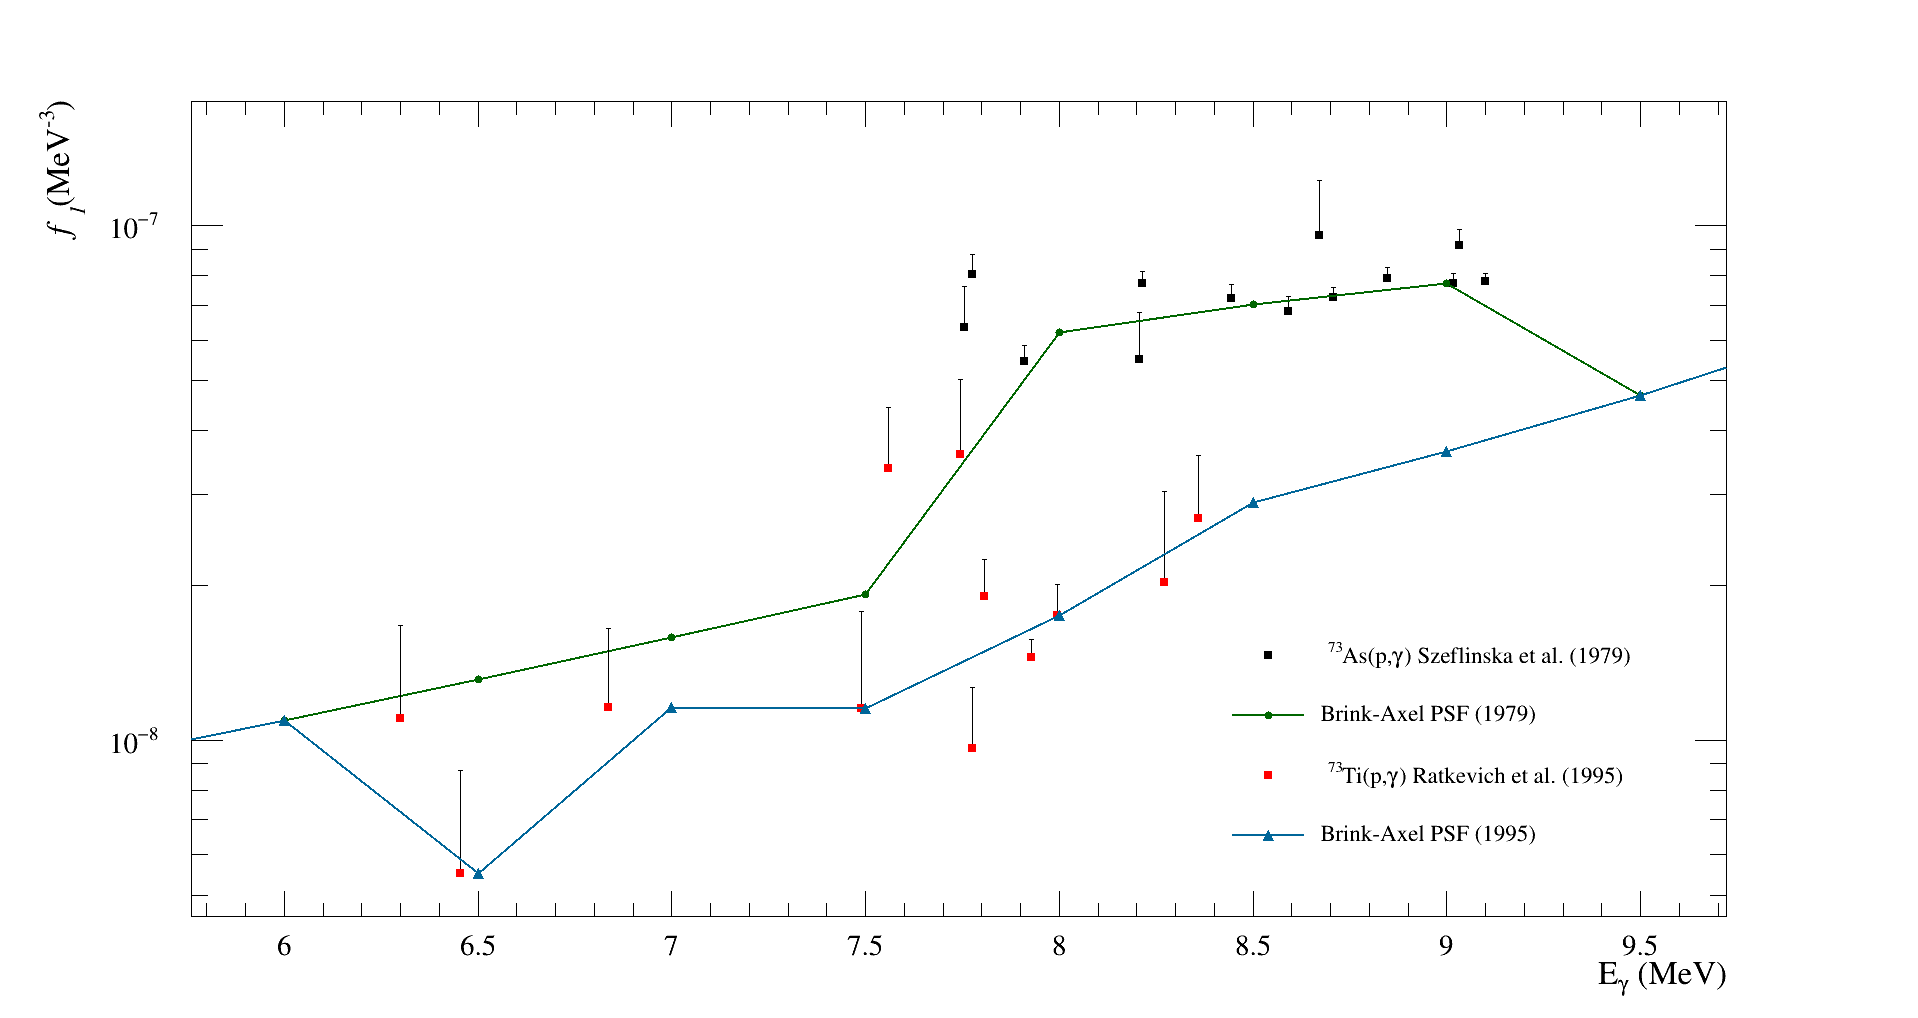
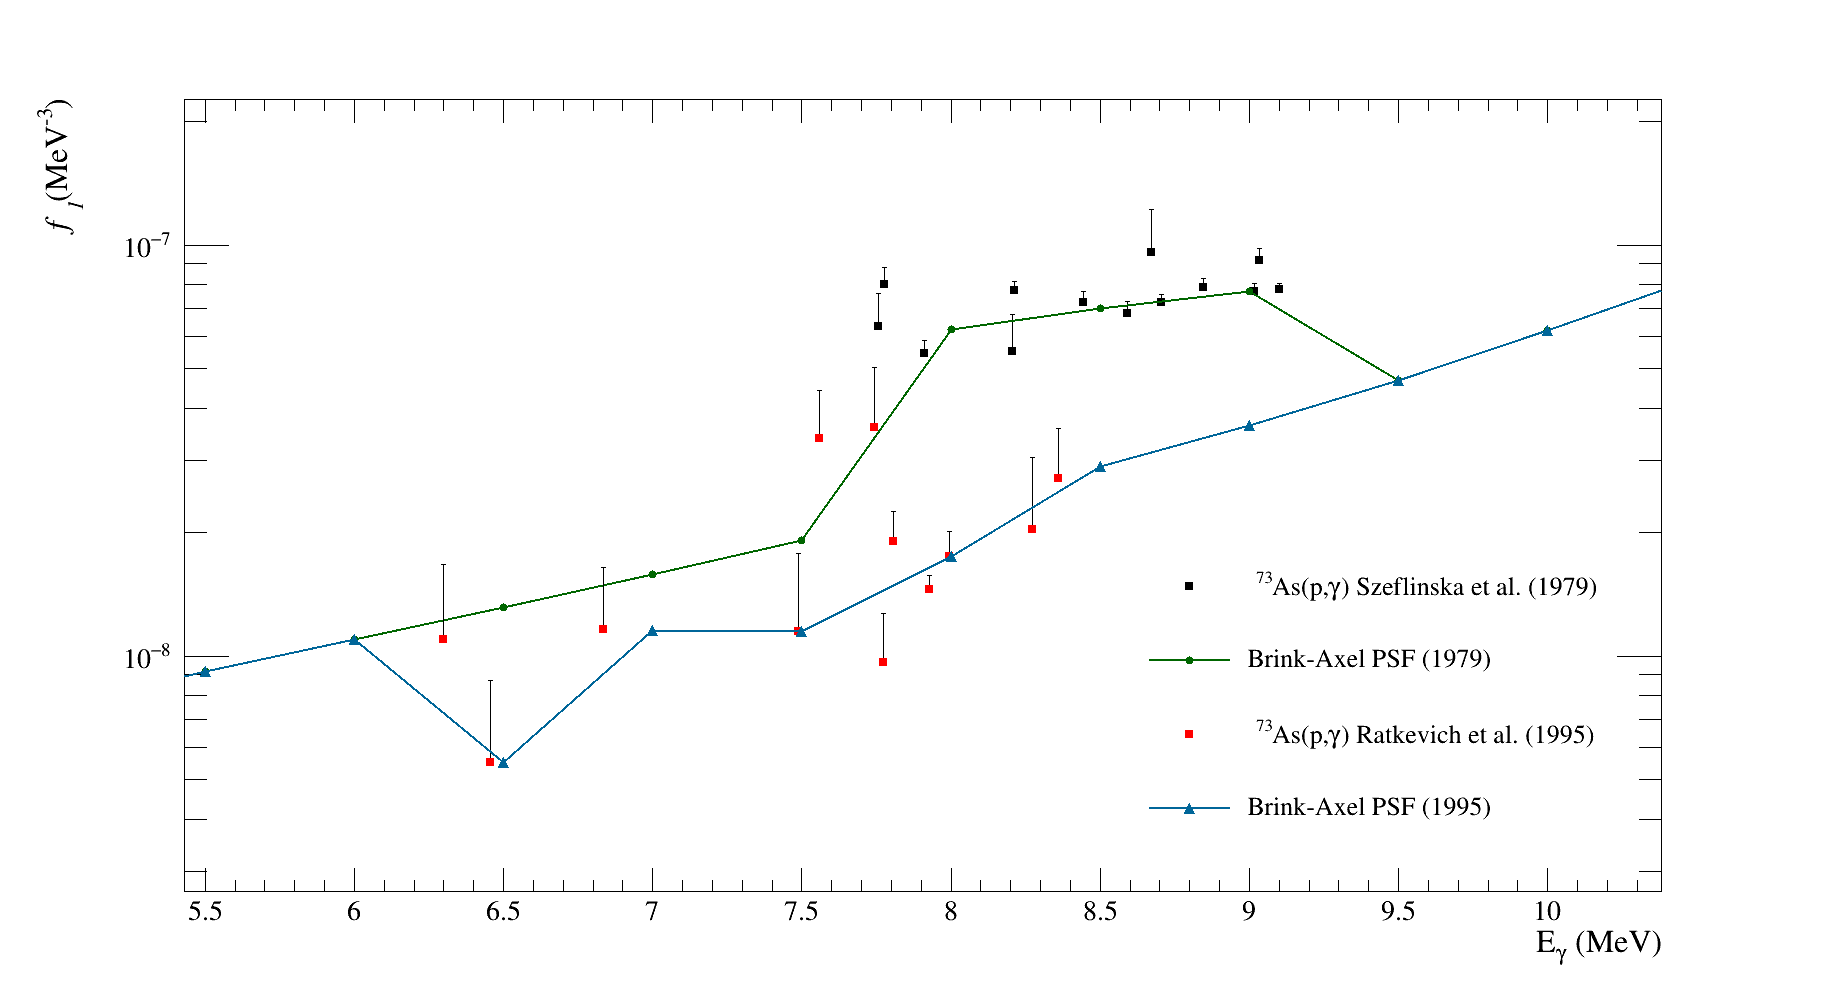
Final Result plots

diff --git a/learning/ML_PlotMGraphRatio.cpp b/learning/ML_PlotMGraphRatio.cpp
@@ -2,14 +2,15 @@ void ratioplot(const char* file1, const char* file2, const char* file3){
 
 // Graphs and canvas
 TCanvas *c1 = new TCanvas ("c1","Graph Draw Options", 500,500,600,400);
-
+c1->SetLogy();
 TMultiGraph *mg = new TMultiGraph("mg","");
 
 // TGraphErrors *gr = new TGraphErrors(file1, "%lg %lg %lg");
 // TGraph *grr = new TGraph(file1, "%*s %lg %*s %*s %lg %*s %*s");
-TGraphErrors *gr1 = new TGraphErrors(file1, "%*s %lg %*s %*s %lg %*s %*s");
-TGraphErrors  *gr2 = new TGraphErrors(file2, "%*s %lg %*s %*s %*s %lg %*s");
-TGraphErrors  *gr3 = new TGraphErrors(file3, "%*s %lg %*s %*s %*s %*s %lg");
+
+TGraphErrors *gr1 = new TGraphErrors(file1, "%*s %lg %*s %*s %*s %*s %lg %lg");
+TGraphErrors  *gr2 = new TGraphErrors(file2, "%*s %lg %*s %*s %*s %*s %lg %lg");
+TGraphErrors  *gr3 = new TGraphErrors(file3, "%*s %lg %*s %*s %*s %*s  %lg %lg");
 
 // Options
 
@@ -23,17 +24,17 @@ TGraphErrors  *gr3 = new TGraphErrors(file3, "%*s %lg %*s %*s %*s %*s %lg");
 // grr->SetMarkerStyle(24);
 
 gr1->SetMarkerColor(kBlue);
-gr1->SetMarkerStyle(24);
-gr1->SetMarkerSize(1);
+gr1->SetMarkerStyle(53);
+gr1->SetMarkerSize(1.5);
 
 
 gr2->SetMarkerColor(kRed);
-gr2->SetMarkerSize(1.3);
-gr2->SetMarkerStyle(22);
+gr2->SetMarkerSize(1.5);
+gr2->SetMarkerStyle(26);
 
 gr3->SetMarkerColor(kGreen+3);
-gr3->SetMarkerSize(1.5);
-gr3->SetMarkerStyle(33); 
+gr3->SetMarkerSize(2.1);
+gr3->SetMarkerStyle(56); 
 
 // mg->Add(gr,"p");
 // mg->Add(grr,"p");
@@ -42,11 +43,16 @@ mg->Add(gr2,"p");
 mg->Add(gr3,"p");
 
 // mg->GetXaxis()->SetRangeUser(35,260);
-mg->GetYaxis()->SetRangeUser(-0.5,1.5);
+// mg->GetYaxis()->SetRangeUser(0.0001,1000);
 
+
+// mg->GetXaxis()->SetTitle("Nuclear Mass (a.m.u)");
+// mg->GetYaxis()->SetTitle("#Gamma_{#gamma}^{cal.}  / #Gamma_{#gamma}^{model} (a.u.)");
+// mg->GetYaxis()->SetMaxDigits(4);
+// mg->GetYaxis()->SetNdivisions(50510);
 
 mg->GetXaxis()->SetTitle("Nuclear Mass (a.m.u)");
-mg->GetYaxis()->SetTitle("#Gamma_{#gamma}_{th}  / #Gamma_{#gamma}_{exp} (a.u.)");
+mg->GetYaxis()->SetTitle("D_{0}^{cal.}  / D_{0}^{exp.} (a.u.)");
 mg->GetYaxis()->SetMaxDigits(4);
 mg->GetYaxis()->SetNdivisions(50510);
 
@@ -58,11 +64,12 @@ mg->Draw("APL");
 
 auto legend = new TLegend(0.15,0.7,0.3,0.85);
 legend->SetBorderSize(0);
-// legend->AddEntry(gr, "Experimental D_{0}","lp");
+// legend->AddEntry(gr2, "D_{0}^{cal.}  / D_{0}^{exp.} (a.u.)","lp");
+// legend->AddEntry(gr2, "#Gamma_{#gamma}^{cal.}  / #Gamma_{#gamma}^{model} (a.u.)","lp");
 // legend->AddEntry(grr,"CTM + FGM","p");
-legend->AddEntry(gr1,"CT+FGM","p");
-legend->AddEntry(gr2,"HFB+Skyrme","p");
-legend->AddEntry(gr3,"HFB+Gogny","p");
+legend->AddEntry(gr1,"General Case","p");
+legend->AddEntry(gr2,"Asymmetric","p");
+legend->AddEntry(gr3,"Symmetric","p");
 legend->Draw();
 
 

diff --git a/learning/ML_PlotMGraph.cpp b/learning/ML_PlotMGraph.cpp
@@ -5,60 +5,62 @@ TCanvas *c1 = new TCanvas ("c1","Graph Draw Options", 500,500,600,400);
 
 TMultiGraph *mg = new TMultiGraph("mg","");
 
-TGraphErrors *gr = new TGraphErrors(file1, "%lg %lg %lg");
-// TGraph *grr = new TGraph(file1, "%lg %*s %*s %lg %*s %*s");
-TGraphErrors *gr1 = new TGraphErrors(file2, "%*s %lg  %*s %*s %lg %lg %*s %*s");
-// TGraphErrors *gr2 = new TGraphErrors(file3, "%*s %lg %lg %lg");
+// TGraphErrors *gr = new TGraphErrors(file1, "%lg %lg %lg");
+TGraphErrors *gr1 = new TGraphErrors(file1, "%*s %lg %lg %lg %*s %*s  %*s");
+TGraphErrors *gr2 = new TGraphErrors(file2, "%*s %lg  %lg %lg %*s %*s %*s");
+TGraphErrors *gr3 = new TGraphErrors(file3, "%*s %lg  %lg %lg %*s %*s %*s");
 // TGraph *gr3 = new TGraph(file4, "%lg %*s %*s %lg %*s %*s");
 
 // Options
 
-gr->SetMarkerColor(1);
-gr->SetMarkerStyle(21);
-gr->SetMarkerSize(1);
-gr->SetLineWidth(1);
-gr->SetLineColor(1);
+// gr->SetMarkerColor(1);
+// gr->SetMarkerStyle(21);
+// gr->SetMarkerSize(0.8);
+// gr->SetLineWidth(1);
+// gr->SetLineColor(1);
 
 // grr->SetMarkerColor(4);
 // grr->SetMarkerStyle(20);
 
 gr1->SetMarkerColor(kRed);
-gr1->SetMarkerStyle(26);
-gr1->SetMarkerSize(1);
+gr1->SetMarkerStyle(53);
+gr1->SetMarkerSize(1.3);
 
 
-// gr2->SetMarkerColor(kMagenta-3);
-// gr2->SetMarkerSize(1.5);
-// gr2->SetMarkerStyle(22);
+gr2->SetMarkerColor(kBlue);
+gr2->SetMarkerSize(1.5);
+gr2->SetMarkerStyle(55);
 
-// gr3->SetMarkerColor(kGreen+3);
-// gr3->SetMarkerSize(1.5);
-// gr3->SetMarkerStyle(43); 
+gr3->SetMarkerColor(kGreen+3);
+gr3->SetMarkerSize(1.8);
+gr3->SetMarkerStyle(56); 
 
-mg->Add(gr,"p");
+// mg->Add(gr,"p");
 // mg->Add(grr);
 mg->Add(gr1,"p");
-// mg->Add(gr2,"p");
-// mg->Add(gr3,"p");
+mg->Add(gr2,"p");
+mg->Add(gr3,"p");
 
-mg->GetXaxis()->SetRangeUser(65,110);
-mg->GetYaxis()->SetRangeUser(-1,35);
+// mg->GetXaxis()->SetRangeUser(65,110);
+// mg->GetYaxis()->SetRangeUser(-1,35);
 
 
 mg->GetXaxis()->SetTitle("Nuclear Mass (a.m.u)");
 mg->GetYaxis()->SetTitle("D_{0} (keV)");
 
+// mg->GetXaxis()->SetTitle("Nuclear Mass (a.m.u)");
+// mg->GetYaxis()->SetTitle("#Gamma_{#gamma} (meV)");
 //Draw
 
 mg->Draw("APL");
 
 auto legend = new TLegend(0.15,0.7,0.3,0.85);
 legend->SetBorderSize(0);
-legend->AddEntry(gr, "Experimental D_{0}","lp");
+// legend->AddEntry(gr, "Experimental #Gamma_{#gamma}","lp");
 // legend->AddEntry(grr,"CTM + FGM","lp");
-legend->AddEntry(gr1,"RFR Test Set","lp");
-// legend->AddEntry(gr2,"Symmetric","lp");
-// legend->AddEntry(gr3,"Symmetric","lp");
+legend->AddEntry(gr1,"General case","lp");
+legend->AddEntry(gr2,"Asymmetric","lp");
+legend->AddEntry(gr3,"Symmetric","lp");
 legend->Draw();
 
 TStyle *st1 = new TStyle("st1","my style");

diff --git a/pg/as/1plotstr2.cpp b/pg/as/1plotstr2.cpp
@@ -62,7 +62,7 @@ auto legend = new TLegend(0.6,0.15,0.85,0.45);
 legend->SetBorderSize(0);
 legend->AddEntry(gr, "{}^{73}As(p,#gamma) Szeflinska et al. (1979)","p");
 legend->AddEntry(grr,"Brink-Axel PSF (1979)","lp");
-legend->AddEntry(gr1,"{}^{73}Ti(p,#gamma) Ratkevich et al. (1995)","p");
+legend->AddEntry(gr1,"{}^{73}As(p,#gamma) Ratkevich et al. (1995)","p");
 legend->AddEntry(gr2,"Brink-Axel PSF (1995)","lp");
 
 // legend->AddEntry(gr2,"HFB + Skyrme","lp");
